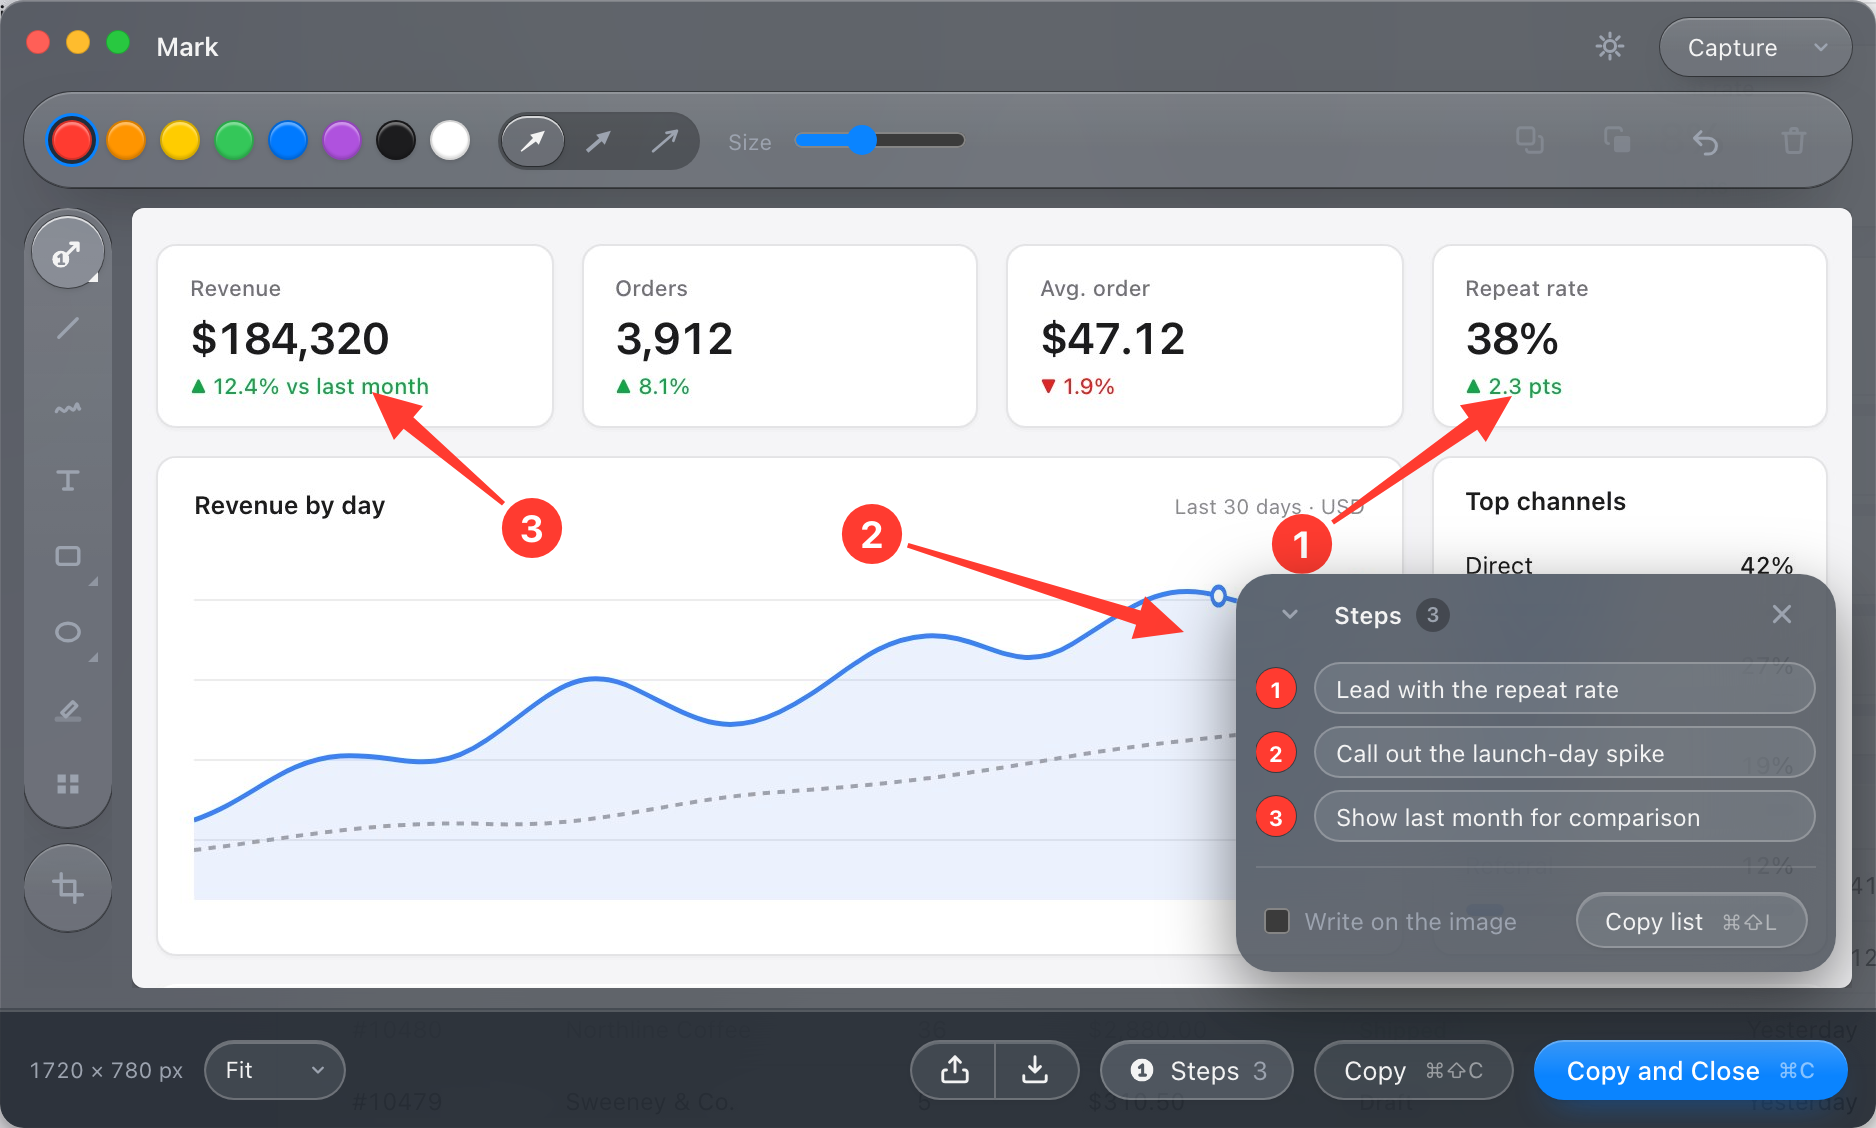
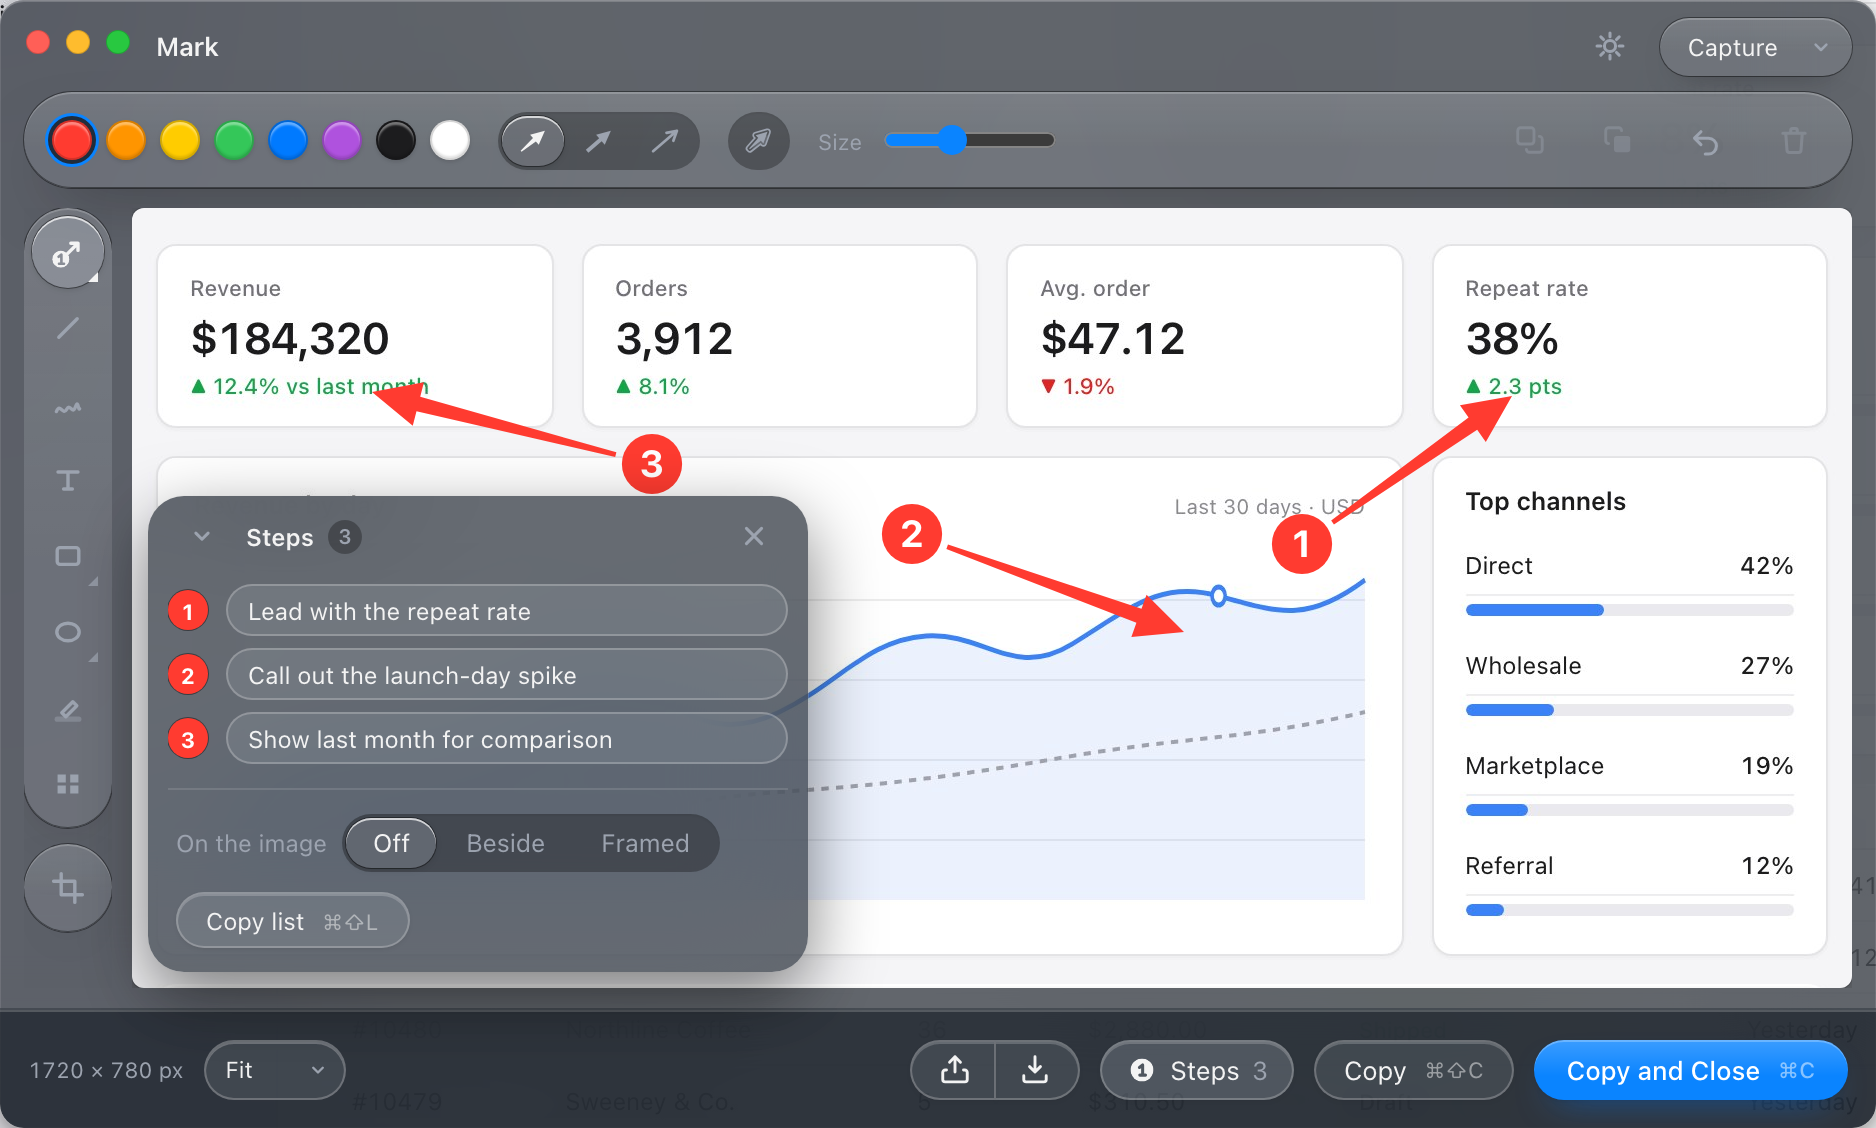
The README shows 0.4.1: framed notes, shadow and border
The numbered-steps picture is drawn again from the current editor, so its
panel has the On the image switch and the toolbar its looks button. A second
picture shows the words on the image instead: three notes framed with their
numbers, each with a border and a shadow, one on the chart's blue where the
border earns its keep.

diff --git a/README.md b/README.md
@@ -13,6 +13,13 @@ and the words stay text.
 
 ![Three numbered steps pointing at a dashboard, with the Steps panel listing what each one is for](docs/numbered-steps.png)
 
+**Or put the words on the picture.** The Steps panel's **On the image** switch
+writes each note beside its number, or frames the two together in one pill. From
+the toolbar, a soft **shadow** and a white **border** lift an arrow off a busy
+screenshot.
+
+![Three notes framed with their numbers in red pills, each with a white border and a soft shadow, pointing at a dashboard](docs/framed-steps.png)
+
 **[Download Mark](https://github.com/tmass1/Mark/releases/latest)**, signed and
 notarized for Apple silicon and Intel, for macOS 13 or later.
 
